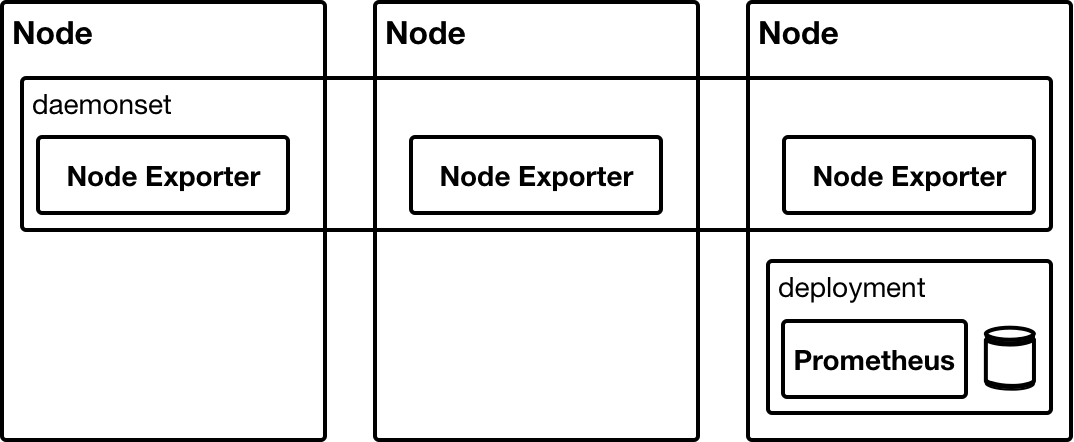
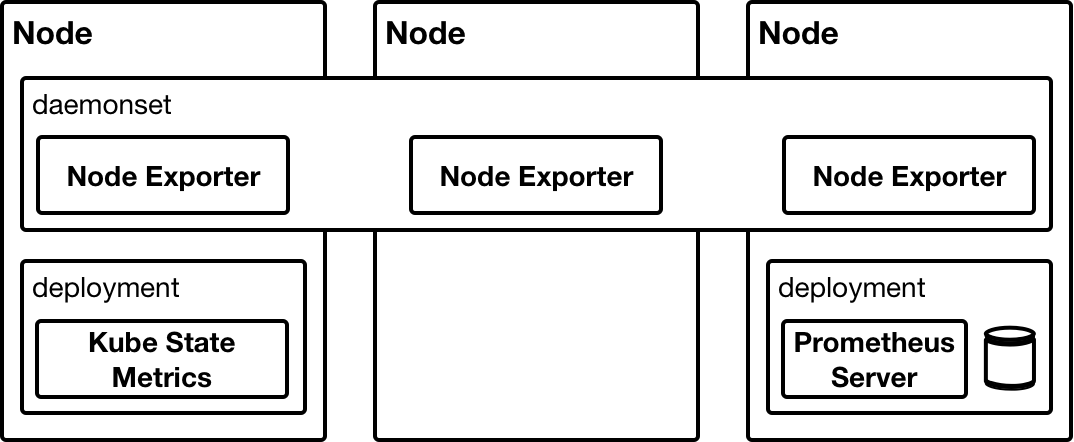
Working on Prometheus.

diff --git a/04-monitoring-and-health-checks/04-03.md b/04-monitoring-and-health-checks/04-03.md
@@ -25,10 +25,44 @@ The following diagram, taken from the _Prometheus_ [website](https://prometheus.
 
 To install _Prometheus_ we will use a [_Helm Chart_](https://github.com/kubernetes/charts/tree/master/stable/prometheus) from the `stable` repository.  We will also make use of a `values.yaml` file to override the default values when deploying the _Chart_.
 
-Kube State Metrics
-Nod Exporter
+The following diagram shows the _Prometheus_ components that will be installed.
 
 <img src="images/prometheus.png" width="537px" />
+
+| Component      | Description                                      |
+|:---------------|:-------------------------------------------------|
+| Prometheus Server  | The Prometheus time series database (TSDB) and collector. |
+| Node Exporter      | Makes node level metrics available for scraping. |
+| Kube State Metrics | Makes Kubernetes metrics available for scraping. |
+
+The `values.yaml` file that is used to customise the installation of _Prometheus_ is shown below.
+
+```yaml
+---
+rbac:
+  create: true
+
+alertmanager:
+  enabled: false
+
+pushgateway:
+  enabled: false
+
+server:
+  ingress:
+    enabled: true
+    hosts:
+      - prometheus.192.168.26.11.nip.io
+    annotations:
+      kubernetes.io/ingress.class: nginx
+  
+  persistentVolume:
+    enabled: false
+```
+
+This `values.yaml` file ensures that the _Alertmanager_ and _Pushgateway_ components are not installed.  It also creates an _Ingress_ resource so that we can access the _Prometheus_ server using the _Ingress Controller_ we deployed in [_Day Three - Deploy Initial Workloads_](../03-building-a-complex-cluster/03-04.md).  RBAC resources (discussed in [_Day Six_](../06-security-and-access-control/06-01.md)) are also created.  And finally, persistence is turned off.  We talk about persistence in [_Day Five_](../05-persistence-and-databases/05-01.md).
+
+So, let's go ahead and install _Prometheus_.
 
 ```console
 helm upgrade --install prometheus \
@@ -38,8 +72,25 @@ helm upgrade --install prometheus \
   stable/prometheus
 ```
 
+We can see the _Kubernetes_ workloads that have been deployed with the following command.
+
+```console
+kubectl get deployment,daemonset
+```
+
+```console
+NAME                                                  DESIRED   CURRENT   UP-TO-DATE   AVAILABLE   AGE
+deployment.extensions/prometheus-kube-state-metrics   1         1         1            1           1h
+deployment.extensions/prometheus-server               1         1         1            1           1h
+
+NAME                                            DESIRED   CURRENT   READY     UP-TO-DATE   AVAILABLE   NODE SELECTOR   AGE
+daemonset.extensions/prometheus-node-exporter   3         3         3         3            3           <none>          1h
+```
+
 
 ## Explore
+
+We can now explore the _Prometheus_ server web UI using the FQDN we provided in the `values.yaml` file.
 
 [http://prometheus.192.168.26.11.nip.io](http://prometheus.192.168.26.11.nip.io)
 
